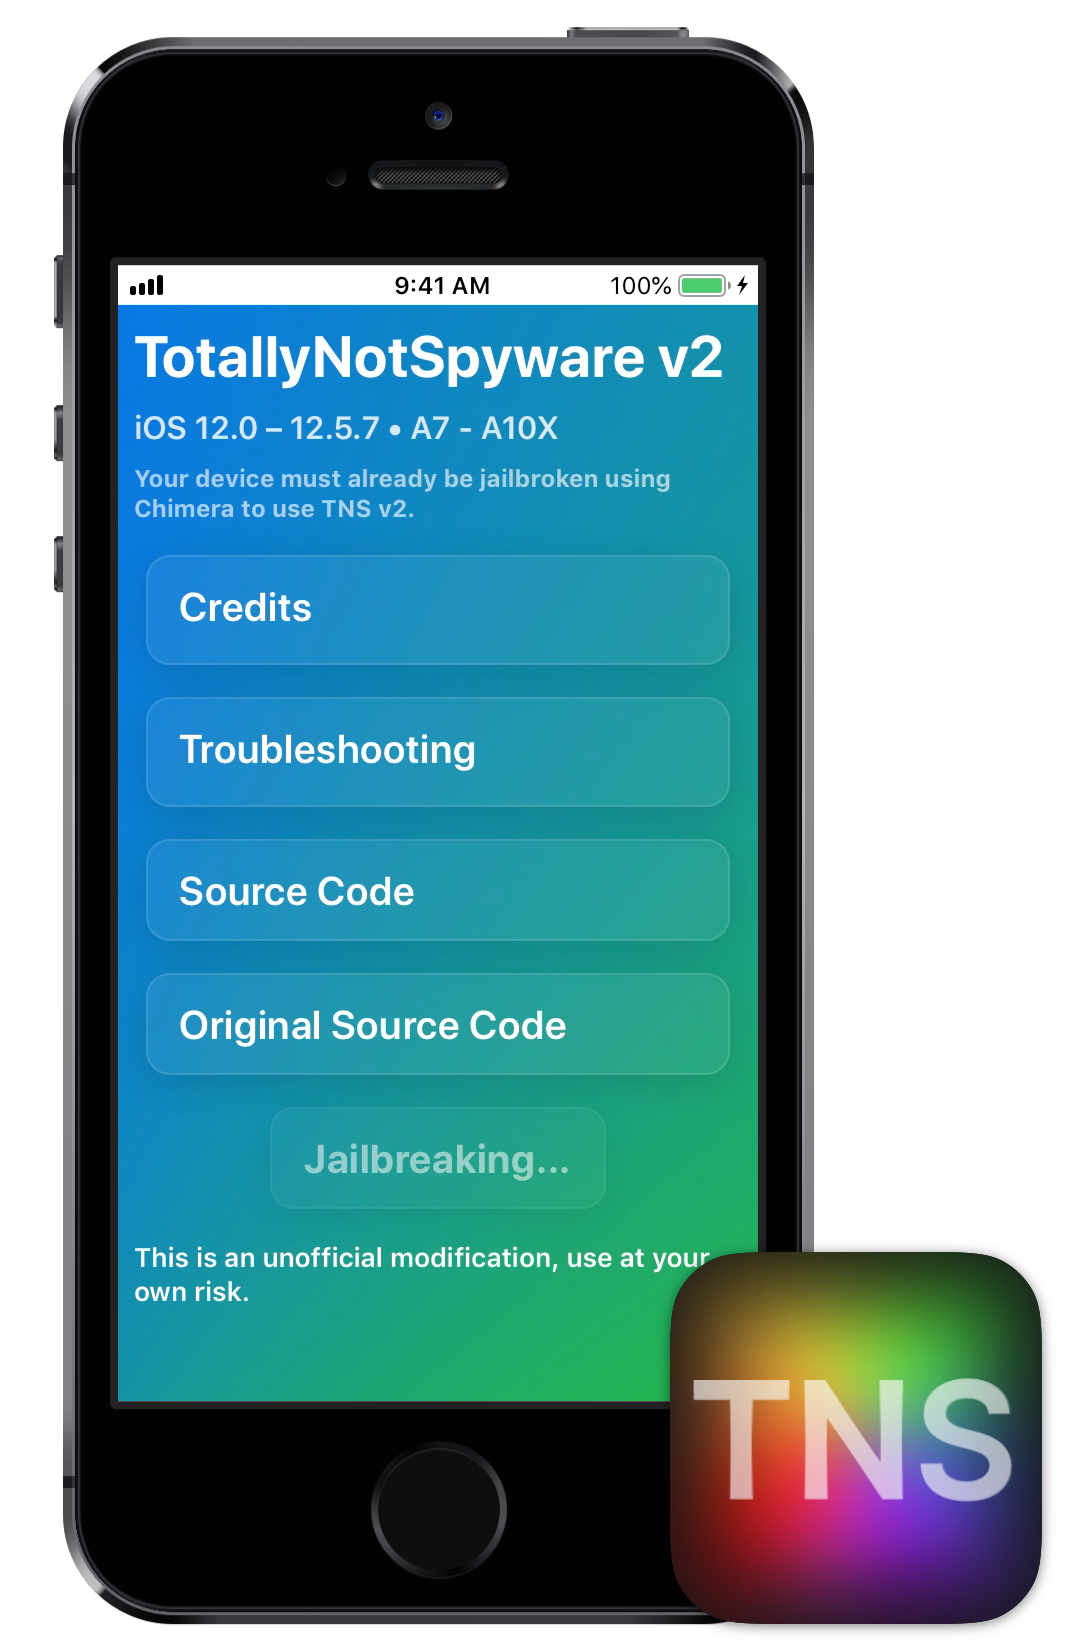
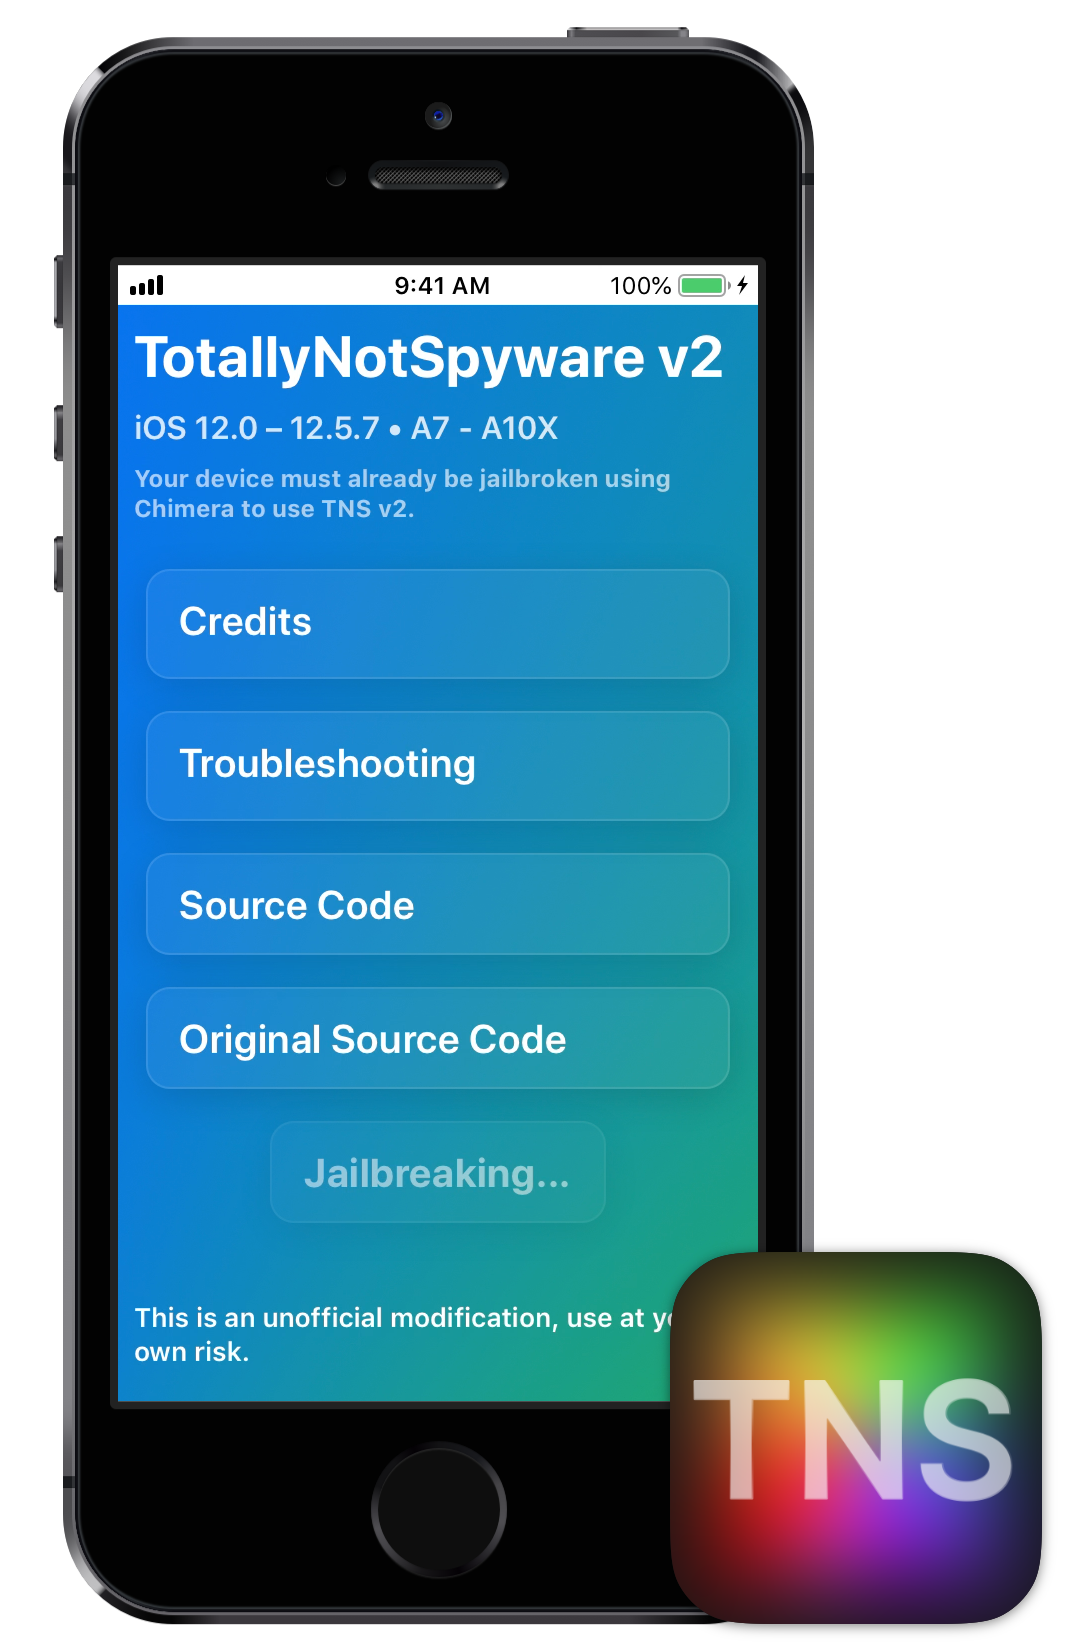
Even better padding 2.0

Changed region(s): [[0.0917, 0.34, 0.7028, 0.8655]]

diff --git a/style.css b/style.css
@@ -15,6 +15,7 @@ body {
   color: var(--text-primary);
   display: flex;
   flex-direction: column;
+  min-height: 100vh;
   font-family: -apple-system, 'SF Pro', Roboto, 'Fira Sans', Oxygen, Ubuntu, 'Segoe UI', 'Helvetica Neue', 'Noto Sans', Arial, sans-serif, ui-sans-serif;
   font-size: 16px;
   font-weight: 600;
@@ -49,9 +50,21 @@ h3 {
 }
 
 h5 {
-    margin: 8px 0 16px 0;
+    margin: 8px 0 0 0;
 	font-size: 12px;
 	color: var(--text-tertiary);
+}
+
+sub {
+    padding: 0 0 16px 0;
+}
+
+.center {
+  margin-top: auto;
+  margin-bottom: auto;
+  display: flex;
+  flex-direction: column;
+  align-items: center;
 }
 
 @keyframes gradientAnimation {

diff --git a/index.html b/index.html
@@ -61,6 +61,7 @@
     <h3>iOS 12.0 – 12.5.7 • A7 - A10X</h3>
     <h5>Your device must already be jailbroken using Chimera to use TNS v2.</h5>
   </header>
+  <div class="center">
   <section class="credits-card" onclick="toggleCredits()">
     <h2>Credits</h2>
     <ul class="credits-list" id="creditsList">
@@ -90,6 +91,7 @@
   <main class="action">
     <button id="jbButton" onclick="rejb()">Re-Jailbreak!</button>
   </main>
+  </div>
   <sub>This is an unofficial modification, use at your own risk.</sub>
 </body>
 </html>
